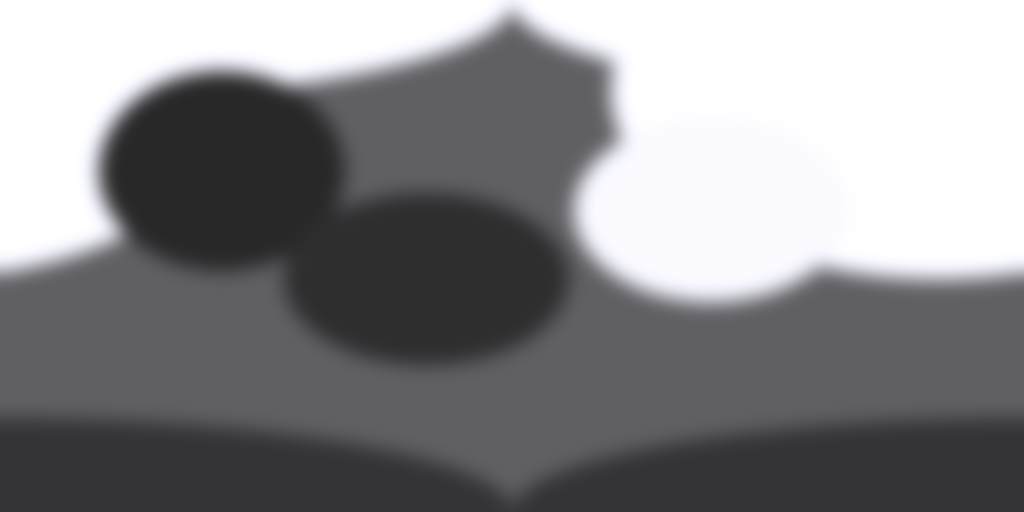
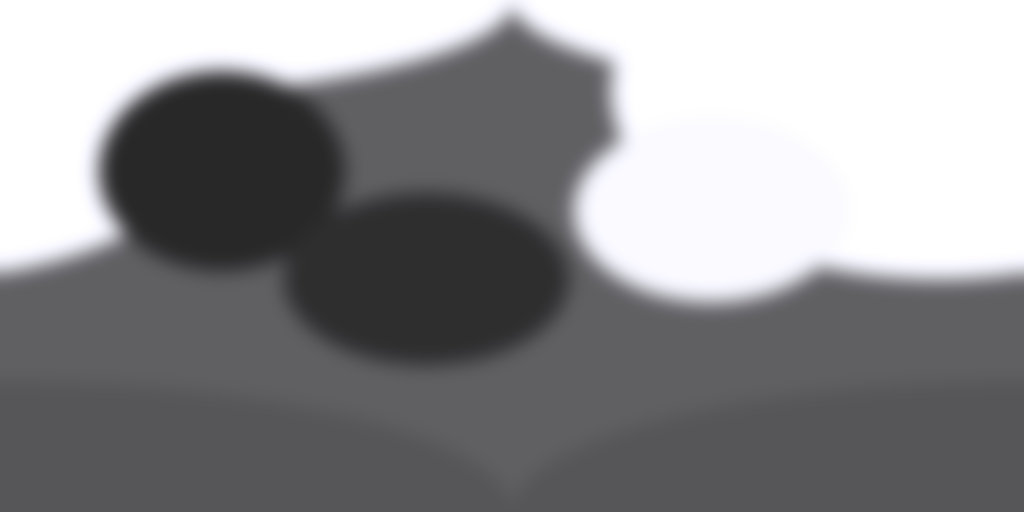
侧边滚花与内凹刻字、UV 方向修正、下缘提亮、图标缩小
★ UV 横向反了（从第一天起就反）
- 币面外圈的拉丁文一直是镜像的（N 变 И、R 变 Я），只是字小又绕着圆，
  一直没人看出来；这次侧边的字横平竖直，一眼就露馅
- 贴图本身是对的，错在贴上去那一步：discMesh 的 u 改为 0.5 − 0.5·cos，
  edgeMesh 的 u 改为 1 − i/segments。竖直方向不动——竖直反了是上下
  颠倒，不是左右镜像，两种错长得不一样

侧边
- 新增自己生成的圆筒网格：横向绕一圈正好一遍、纵向是厚度。
  系统现成的圆柱贴图怎么绕由它说了算，滚花会歪、刻字会糊
- 170 道滚花 + 内凹刻字，刻字那几段清掉滚花留成光面（清晰度最大的一项）
- 凹槽里的暗是按深度烘进彩色贴图的：法线贴图只改反光方向、算不出遮挡，
  不烘的话"内凹"只相当于打光反了一下，字并不会更清楚
- 两句分别朝向两面：日面朝上读 ALEA IACTA EST，月面朝上读
  TERTIA VIA MANET。后者是彩蛋，指"边缘立币"那个第三种答案，
  而它正刻在侧边上
- 整体对比度压着，旋钮是 EDGE_AO 和 EDGE_RELIEF

其他
- 环境贴图地面 52 → 86：硬币下半边的侧棱映的就是那一块，
  太暗会让下缘在黑背景上整个消失，快速翻滚时像缺了一块
- 月面图案整体左右翻，月牙开口朝左（坑与星一起翻，构图不散）
- App 图标硬币缩到 75%，小尺寸下不再是一整个白圆
- 两张新贴图纳入素材检查

Claude-Session: https://claude.ai/code/session_013L5obD5FRvDZWpqWPEBMAm

Changed region(s): [[0.0, 0.8125, 1.0, 1.0]]

diff --git a/CoinFlip/Scene/CoinSceneView.swift b/CoinFlip/Scene/CoinSceneView.swift
@@ -673,10 +673,20 @@ struct CoinSceneView: View {
         let body = ModelEntity(
             mesh: .generateCylinder(height: CoinScene.coinThickness,
                                     radius: CoinScene.coinRadius),
-            materials: [edgeMaterial()]
+            materials: [bodyMaterial()]
         )
         body.transform.rotation = simd_quatf(angle: .pi / 2, axis: [1, 0, 0])
         coin.addChild(body)
+
+        // 侧边的滚花与刻字。
+        // 套在饼身外面一丁点，和两个币面一样是"贴上去"的——
+        // 自己生成网格是为了能控制贴图怎么绕：横向绕一圈，纵向是厚度。
+        let band = ModelEntity(
+            mesh: Self.edgeMesh(radius: CoinScene.coinRadius + 0.0012,
+                                thickness: CoinScene.coinThickness),
+            materials: [edgeMaterial(textureNamed: style.textureEdge)]
+        )
+        coin.addChild(band)
 
         // 贴图稍微浮出饼身一丁点，避免和饼身表面重叠闪烁
         let offset = CoinScene.coinThickness / 2 + 0.0015
@@ -713,8 +723,11 @@ struct CoinSceneView: View {
             let a = 2 * Float.pi * Float(i) / Float(segments)
             positions.append([radius * cos(a), radius * sin(a), 0])
             normals.append([0, 0, 1])
-            // 贴图的竖直方向是从上往下数的，所以这里要反过来
-            uvs.append([0.5 + 0.5 * cos(a), 0.5 - 0.5 * sin(a)])
+            // ★ 横向要反着取。★
+            //   这里的 u 用 0.5 − 0.5·cos 而不是加，是因为贴到硬币上之后
+            //   横向会整个镜像过来：拉丁文会变成 И Я Ǝ 那样的反字。
+            //   竖直方向则不用反（反了的话字是上下颠倒，不是左右镜像）。
+            uvs.append([0.5 - 0.5 * cos(a), 0.5 - 0.5 * sin(a)])
         }
 
         var indices: [UInt32] = []
@@ -730,6 +743,51 @@ struct CoinSceneView: View {
 
         return (try? MeshResource.generate(from: [descriptor]))
             ?? .generatePlane(width: radius * 2, height: radius * 2)
+    }
+
+    /// 侧边那一圈的网格：一个没有盖子的圆筒。
+    ///
+    /// 为什么不用系统现成的圆柱：现成的那个贴图怎么绕是它说了算，
+    /// 滚花会歪、刻字会糊。这里自己定：
+    /// 横向（u）绕一圈正好 0 到 1，纵向（v）是硬币的厚度。
+    /// 接缝处 u 从 1 回到 0，所以贴图的图案必须能首尾相接——
+    /// 滚花是均匀重复的，刻字绕一圈整两遍，都对得上。
+    static func edgeMesh(radius: Float, thickness: Float,
+                         segments: Int = 192) -> MeshResource {
+        var positions: [SIMD3<Float>] = []
+        var normals: [SIMD3<Float>] = []
+        var uvs: [SIMD2<Float>] = []
+        let half = thickness / 2
+
+        for i in 0...segments {
+            let a = 2 * Float.pi * Float(i) / Float(segments)
+            // ★ 横向反着取，理由同币面。★ 不反的话边上的刻字是镜像的。
+            let u = 1 - Float(i) / Float(segments)
+            let c = cos(a), s = sin(a)
+            // 法线朝外，所以侧边映出来的是硬币四周的环境
+            positions.append([radius * c, radius * s, half])
+            positions.append([radius * c, radius * s, -half])
+            normals.append([c, s, 0])
+            normals.append([c, s, 0])
+            uvs.append([u, 0])
+            uvs.append([u, 1])
+        }
+
+        var indices: [UInt32] = []
+        for i in 0..<segments {
+            let a = UInt32(i * 2), b = a + 1, c = a + 2, d = a + 3
+            // 绕序要让三角形正面朝外，否则整圈会被背面剔除掉、什么都看不见
+            indices += [a, b, c, b, d, c]
+        }
+
+        var descriptor = MeshDescriptor(name: "coinEdge")
+        descriptor.positions = MeshBuffer(positions)
+        descriptor.normals = MeshBuffer(normals)
+        descriptor.textureCoordinates = MeshBuffer(uvs)
+        descriptor.primitives = .triangles(indices)
+
+        return (try? MeshResource.generate(from: [descriptor]))
+            ?? .generateCylinder(height: thickness, radius: radius)
     }
 
     /// 带图案的金属面。
@@ -764,11 +822,39 @@ struct CoinSceneView: View {
     }
 
     /// 侧边：没有图案的抛光银
-    private func edgeMaterial() -> RealityKit.Material {
+    /// 饼身：藏在三张贴图底下的那块实心金属。
+    /// 正反面和侧边都是"贴"在它外面一丁点的，所以它几乎看不见，
+    /// 存在的意义是从任何角度看过去硬币都是实的，不会漏出里面。
+    private func bodyMaterial() -> RealityKit.Material {
         var material = PhysicallyBasedMaterial()
-        material.baseColor = .init(tint: UIColor(white: 0.88, alpha: 1))
+        material.baseColor = .init(tint: UIColor(white: 0.80, alpha: 1))
         material.metallic = 1.0
-        material.roughness = 0.12
+        material.roughness = 0.2
+        return material
+    }
+
+    /// 侧边：滚花与刻字。
+    ///
+    /// ★ 对比度要低。★ 侧边是配角，它的任务是让硬币在翻滚时边缘有细碎的光在走，
+    ///   证明这是一块有厚度的金属，而不是两张纸背靠背。做亮了就会抢正反面的戏。
+    ///
+    /// 所以起伏几乎全交给法线图（只改反光的方向），彩色贴图基本是平的一片银；
+    /// 粗糙度也比正反面高一点，滚花上的光是一片细碎的微光，不是一排小镜子。
+    private func edgeMaterial(textureNamed name: String) -> RealityKit.Material {
+        var material = PhysicallyBasedMaterial()
+        material.metallic = 1.0
+        material.roughness = 0.17
+
+        if let color = try? TextureResource.load(named: name) {
+            material.baseColor = .init(tint: UIColor(white: 0.97, alpha: 1),
+                                       texture: .init(color))
+        } else {
+            material.baseColor = .init(tint: UIColor(white: 0.88, alpha: 1))
+        }
+        if let bump = try? TextureResource.load(named: name + "_normal",
+                                                options: .init(semantic: .normal)) {
+            material.normal = .init(texture: .init(bump))
+        }
         return material
     }
 

diff --git a/CoinFlipTests/ResourcesTests.swift b/CoinFlipTests/ResourcesTests.swift
@@ -22,7 +22,7 @@ final class ResourcesTests: XCTestCase {
             ?? Bundle(for: ResourcesTests.self).url(forResource: name, withExtension: ext)
     }
 
-    /// 三个素材文件都能找到，而且不是空文件
+    /// 每个素材文件都能找到，而且不是空文件
     func testResourcesExist() {
         let style = StyleProfile.silver
         let items: [(String, String)] = [
@@ -30,6 +30,8 @@ final class ResourcesTests: XCTestCase {
             (style.textureMoon, "png"),
             (style.textureSun + "_normal", "png"),
             (style.textureMoon + "_normal", "png"),
+            (style.textureEdge, "png"),
+            (style.textureEdge + "_normal", "png"),
             ("studio_env", "png"),
             ("ground_fade", "png"),
             ("shadow_soft", "png"),

diff --git a/CoinFlip/Model/StyleProfile.swift b/CoinFlip/Model/StyleProfile.swift
@@ -17,6 +17,8 @@ struct StyleProfile {
 
     /// 月面贴图的文件名（不带扩展名）
     let textureMoon: String
+    /// 侧边的滚花与刻字贴图（不含 _normal 后缀）
+    let textureEdge: String
 
     /// 抛起时那一声的文件名（不带扩展名）。余韵较长，一直响到硬币升上去。
     let tossSound: String
@@ -45,6 +47,7 @@ extension StyleProfile {
         id: "silver",
         textureSun: "sun_silver",
         textureMoon: "moon_silver",
+        textureEdge: "edge_silver",
         tossSound: "toss_silver",
         landSound: "land_silver",
         bounciness: 0.055,

diff --git a/scripts/make_assets.py b/scripts/make_assets.py
@@ -49,6 +49,36 @@ R_FIELD = 0.706             # 同心细纹底的外沿
 MOTIF_RING_ERASE = 1.0      # 凸起上的同心纹擦掉多少（1 全擦净，0.5 只减淡）
 MOTIF_EDGE_BLUR = 5.0       # 凸起边缘擦出多软的过渡，避免留下生硬的分界线
 
+# ── 侧边 ──
+# 真币的侧边有一圈细密的滚花（防止有人刮下边上的银），讲究的还会刻一圈字。
+# 参考用户给的实物照片：滚花很细、明暗很淡，字就压在滚花上面，同一个色调。
+EDGE_W, EDGE_H = 4096, 128      # 展开成一条长带。宽高比接近真实的周长比厚度
+EDGE_REEDS = 170                # 滚花多少道
+EDGE_RELIEF = 48                # 滚花凸起多少。★ 压低它 ★ 侧边不该抢正反面的视线
+EDGE_LETTER = 150               # 刻字**凹进去**多少（内凹，不是凸起）
+EDGE_AO = 46                    # 凹槽里烘多深的暗。见 make_edge 里的说明
+
+# 侧边刻字。两句都是对这枚硬币的注脚：
+#   ALEA IACTA EST   骰子已经掷下
+#   TERTIA VIA MANET 仍有第三条路  ← 彩蛋
+# 第二句说的就是"边缘立币"那个极低概率的第三种答案。
+# 它被刻在**侧边**上——答案出现在哪儿，提示就写在哪儿。
+# 绕一圈两句各出现两遍，词与词之间只用空格，不加分隔点。
+#
+# ALEA IACTA EST   骰子已经掷下。恺撒渡卢比孔河。
+#   严格说这是后世通行的语序；苏维托尼乌斯原文作 IACTA ALEA EST。
+#   这里用通行版，因为认得的人多得多——彩蛋是给认得的人准备的。
+# TERTIA VIA MANET 仍有第三条路。← 彩蛋，指"边缘立币"那个第三种答案。
+#   manēre 兼有"留存"和"等待"两义，所以它也读作"第三条路在等着"。
+EDGE_PHRASES = ["ALEA IACTA EST", "TERTIA VIA MANET"]
+
+# 侧边的字只能在某一面朝上时读得正。所以两句**分别朝向两面**：
+#   日面朝上  → 读得出 ALEA IACTA EST（骰子已经掷下）
+#   月面朝上  → 读得出 TERTIA VIA MANET（仍有第三条路）
+# 每一面都有属于自己的那一句，翻到哪面就读哪句。
+# 这里列出来的句子在贴图里转 180° 画。
+EDGE_FLIPPED = {"ALEA IACTA EST"}
+
 SUN_TEXT = "SOL · INVICTUS · LUX · AETERNA · MMXXVI"
 MOON_TEXT = "LUNA · REGINA · SILENTII · NOCTIS · MMXXVI"
 
@@ -168,14 +198,15 @@ def moon_motif(major: Image.Image, rings: Image.Image,
     cd = ImageDraw.Draw(crescent)
     r = 0.470
     cd.ellipse([c - c * r, c - c * r, c + c * r, c + c * r], fill=225)
-    cut_r, cx, cy = r * 0.880, c + c * r * 0.395, c - c * r * 0.120
+    # 开口朝左。下面的环形坑和星星也跟着翻到对称的位置，构图才不散。
+    cut_r, cx, cy = r * 0.880, c - c * r * 0.395, c - c * r * 0.120
     cd.ellipse([cx - c * cut_r, cy - c * cut_r, cx + c * cut_r, cy + c * cut_r], fill=0)
 
     # 月面上几处环形坑，做成凹进去的
     hd = ImageDraw.Draw(crescent)
-    for ox, oy, orr in [(-0.250, -0.195, 0.052), (-0.330, 0.090, 0.038),
-                        (-0.175, 0.265, 0.044), (-0.085, -0.300, 0.030),
-                        (-0.300, -0.030, 0.024), (-0.130, 0.055, 0.020)]:
+    for ox, oy, orr in [(0.250, -0.195, 0.052), (0.330, 0.090, 0.038),
+                        (0.175, 0.265, 0.044), (0.085, -0.300, 0.030),
+                        (0.300, -0.030, 0.024), (0.130, 0.055, 0.020)]:
         x, y = c + c * ox, c + c * oy
         s = c * orr
         hd.ellipse([x - s, y - s, x + s, y + s], fill=150)
@@ -193,9 +224,9 @@ def moon_motif(major: Image.Image, rings: Image.Image,
     # 星星：四角星，大小不一地散在月牙开口那侧
     d = ImageDraw.Draw(major)
     md = ImageDraw.Draw(mask)
-    for sx, sy, ss, v in [(0.300, -0.330, 0.042, 240), (0.455, -0.090, 0.028, 225),
-                          (0.250, 0.230, 0.034, 232), (0.420, 0.330, 0.020, 215),
-                          (0.115, -0.470, 0.022, 220), (0.520, 0.120, 0.016, 205)]:
+    for sx, sy, ss, v in [(-0.300, -0.330, 0.042, 240), (-0.455, -0.090, 0.028, 225),
+                          (-0.250, 0.230, 0.034, 232), (-0.420, 0.330, 0.020, 215),
+                          (-0.115, -0.470, 0.022, 220), (-0.520, 0.120, 0.016, 205)]:
         x, y, s = c + c * sx, c + c * sy, c * ss
         star = [(x, y - s), (x + s * 0.22, y - s * 0.22),
                    (x + s, y), (x + s * 0.22, y + s * 0.22),
@@ -339,6 +370,116 @@ def circular_alpha() -> Image.Image:
     return mask.resize((SIZE, SIZE), Image.LANCZOS)
 
 
+# ─────────────────────────── 侧边 ───────────────────────────
+
+def make_edge():
+    """
+    侧边的滚花与内凹刻字。
+
+    做成一条长带：横向绕硬币一圈（接缝处必须对得上），纵向是硬币的厚度。
+
+    三件事值得写下来：
+
+    ① **刻字是凹进去的，不是凸出来的。**
+       真币的边字就是压进去的。
+
+    ② **凹槽里的暗是烘进彩色贴图的，不是算出来的。**
+       真实的内凹之所以好认，靠的是光进不去、沟里有阴影。但我们只有法线贴图，
+       它只改反光方向，不做遮挡计算——光翻个正负号，看着只是"打光反了"，
+       字并不会更清楚。所以这里按深度直接往彩色贴图里画一道淡影，
+       把渲染算不出来的那部分补上。这才是内凹真正兑现的地方。
+
+    ③ **刻字那几段要把滚花清掉。**
+       这是清晰度最大的一项。字压在竖条纹上，一个字母要和七八道竖线抢地方，
+       边界全被切碎。真币上刻字的那一段本来就是光面。
+
+    ★ 整体对比度仍然压着。★ 侧边是配角：它的任务是让硬币翻滚时边缘有细碎的
+      光在走，证明这是一块有厚度的金属，而不是两张纸背靠背。
+      觉得它抢了正反面的戏，调小 EDGE_RELIEF 和 EDGE_AO。
+    """
+    W, H = EDGE_W, EDGE_H
+
+    # ── 滚花
+    reeds = Image.new("L", (W, H), 0)
+    rd = ImageDraw.Draw(reeds)
+    pad = int(H * 0.19)
+    step = W / EDGE_REEDS
+    bar = max(2, int(step * 0.34))
+    for i in range(EDGE_REEDS):
+        x = int(i * step)
+        rd.rectangle([x, pad, x + bar, H - pad], fill=255)
+
+    # ── 刻字，以及字底下要清掉滚花的那几段光面
+    text_img = Image.new("L", (W, H), 0)
+    panel = Image.new("L", (W, H), 0)
+    td, pd = ImageDraw.Draw(text_img), ImageDraw.Draw(panel)
+    try:
+        font = ImageFont.truetype(FONT_PATH, int(H * 0.38))
+    except OSError:
+        font = ImageFont.load_default()
+
+    slots = len(EDGE_PHRASES) * 2
+    gap = W / slots
+    for k in range(slots):
+        phrase = EDGE_PHRASES[k % len(EDGE_PHRASES)]
+        centre = gap * (k + 0.5)
+        width = d_textwidth(td, phrase, font)
+
+        # 每句先画在自己的一小块上，需要翻转的转 180° 再贴回长带。
+        # 不能直接在长带上转——那会把整条带子连同别的句子一起转掉。
+        tile_w = int(width + H * 1.2)
+        tile = Image.new("L", (tile_w, H), 0)
+        ImageDraw.Draw(tile).text((tile_w / 2, H / 2), phrase,
+                                  font=font, fill=255, anchor="mm")
+        if phrase in EDGE_FLIPPED:
+            tile = tile.rotate(180)
+        text_img.paste(tile, (int(centre - tile_w / 2), 0), tile)
+
+        half = width / 2 + H * 0.55
+        pd.rectangle([centre - half, 0, centre + half, H], fill=255)
+
+    # 光面的边缘糊开，滚花是渐隐进去的，不会留下一道生硬的界
+    panel = panel.filter(ImageFilter.GaussianBlur(H * 0.16))
+
+    # ── 合成高度：滚花凸起（正），刻字凹陷（负）
+    reed_h = np.array(reeds, np.float32) / 255
+    keep = 1 - np.array(panel, np.float32) / 255
+    text_h = np.array(text_img.filter(ImageFilter.GaussianBlur(1.1)), np.float32) / 255
+
+    h = EDGE_RELIEF * reed_h * keep - EDGE_LETTER * text_h
+    h = np.array(Image.fromarray((h + 128).clip(0, 255).astype(np.uint8), "L")
+                 .filter(ImageFilter.GaussianBlur(1.3)), np.float32) - 128
+    h /= 255
+
+    # ── 彩色图：平的一片银 + 极轻的明暗 + 凹槽里烘的那道暗
+    gy, gx = np.gradient(h)
+    shade = np.clip((-gx - gy) * 300, -16, 16)
+    occlusion = np.clip(-h, 0, None) / (EDGE_LETTER / 255) * EDGE_AO
+
+    silver = np.array([206, 210, 218], dtype=np.float32)
+    px = silver[None, None, :] + shade[:, :, None] - occlusion[:, :, None]
+    Image.fromarray(np.clip(px, 0, 255).astype(np.uint8), "RGB").save(
+        OUT / "edge_silver.png", "PNG", optimize=True)
+
+    # ── 法线图：起伏靠它。硬币一转，滚花和刻字上的光就跟着走。
+    strength = 30.0
+    nx, ny, nz = -gx * strength, gy * strength, np.ones_like(gx)
+    norm = np.sqrt(nx * nx + ny * ny + nz * nz)
+    rgb = np.stack([nx / norm, ny / norm, nz / norm], axis=-1) * 0.5 + 0.5
+    Image.fromarray((rgb * 255).astype(np.uint8), "RGB").save(
+        OUT / "edge_silver_normal.png", "PNG", optimize=True)
+
+    for n in ("edge_silver", "edge_silver_normal"):
+        f = OUT / f"{n}.png"
+        print(f"  {f.name}  {W}x{H}  {f.stat().st_size // 1024} KB")
+    print(f"  绕一圈内凹刻字：{' ／ '.join(EDGE_PHRASES)}，各两遍，字底下清了滚花")
+
+
+def d_textwidth(draw, text, font) -> float:
+    """这个字串画出来有多宽"""
+    return draw.textlength(text, font=font)
+
+
 # ─────────────────────────── 环境贴图 ───────────────────────────
 
 def make_environment():
@@ -383,8 +524,10 @@ def make_environment():
     box(78, 30, 86, 70, 40)
     box(150, -8, 100, 60, 46)
 
-    # 地面：暗，但留一点
-    box(0, -90, 360, 66, 52)
+    # 地面：暗，但留一点。
+    # ★ 不能太暗。★ 硬币下半边的侧棱映的就是这一块；它一黑，
+    #   下缘在黑背景上就整个没了，快速翻滚时看着像硬币缺了一块。
+    box(0, -90, 360, 92, 86)
 
     # 只稍微糊一下。糊过头，亮暗之间会填满中间调，
     # 币面就从"黑白分明"变成"一片灰"——这正是上一版发灰的原因。
@@ -442,8 +585,10 @@ def make_ground_and_shadow():
 
 # 图标尺寸（像素）。iOS 要一张 1024 的，其余由系统缩。
 ICON_SIZE = 1024
-# 硬币占图标边长的比例。别顶满——iOS 会切圆角，顶满会被啃掉边
-ICON_COIN = 0.82
+# 硬币占图标边长的比例。
+# 不能大：顶满之后小尺寸下只剩"一整个白圆"，看不出是硬币。
+# 留足黑底，圆形的轮廓才读得出来，iOS 切圆角也不会啃到。
+ICON_COIN = 0.615
 
 
 def make_icon():
@@ -582,6 +727,8 @@ if __name__ == "__main__":
             path = OUT / f"{name}{suffix}.png"
             img.save(path, "PNG", optimize=True)
             print(f"  {path.name}  {img.size[0]}x{img.size[1]}  {path.stat().st_size // 1024} KB")
+    print("生成侧边：")
+    make_edge()
     print("生成环境贴图：")
     make_environment()
     print("生成地面与阴影：")
